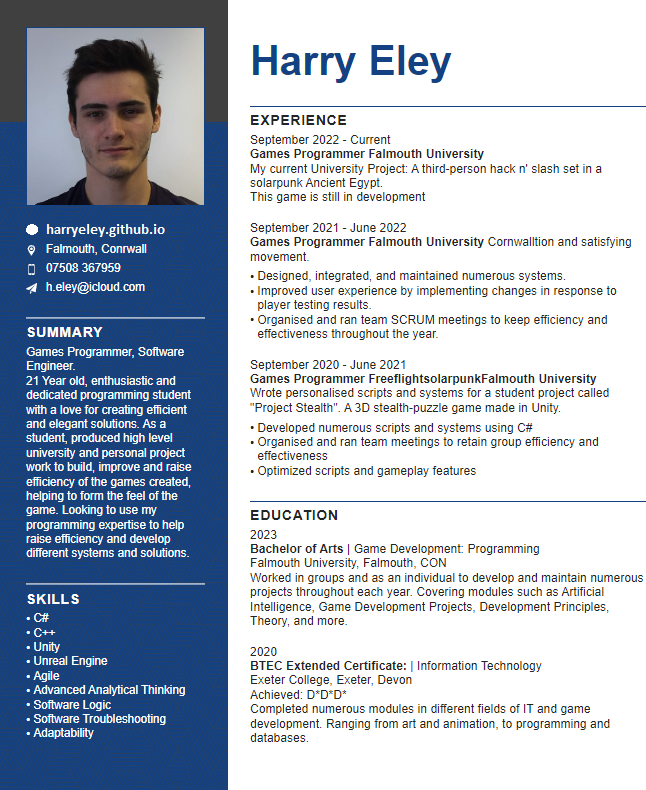
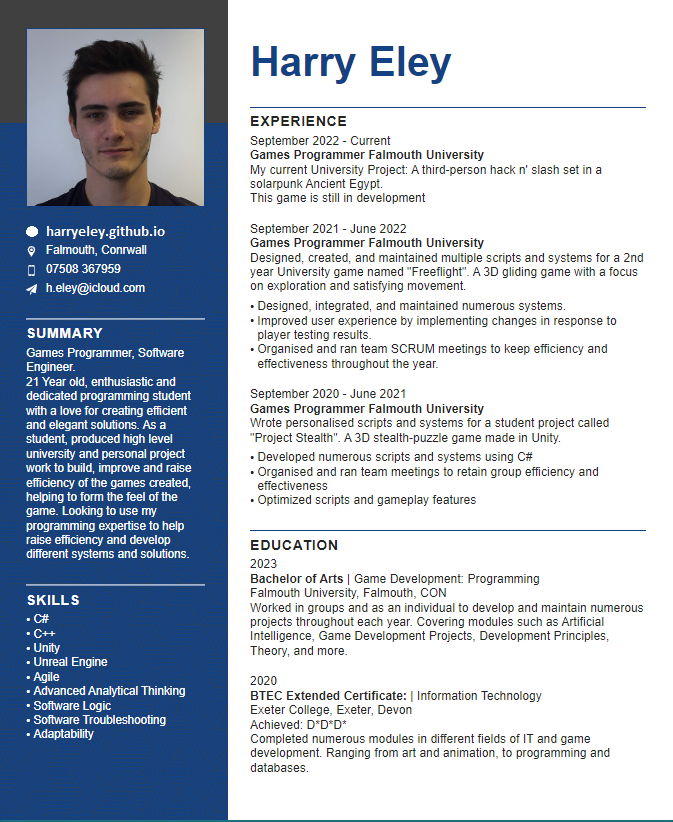
fixed cv typing error, updated freeflight pathing to include follow curve script

Changed region(s): [[0.0, 0.0, 0.9907, 1.0], [0.0, 0.1215, 0.0619, 0.1823], [0.1238, 0.0304, 0.1548, 0.0608]]

diff --git a/Freeflight.html b/Freeflight.html
@@ -195,7 +195,7 @@
 										<img src="images/FreeflightScripts/PathingToolGetInput.PNG" alt="" />
 										<p>
 											Below is the function that handles drawing the editor into the scene view. It lops through all segments within the path and gets all the points in the path, storing
-											these in an array. IT then draws lines between anchor points and their control point. These points are these passed through the DrawBezier function so it can be 
+											these in an array. IT then draws lines between anchor points and their control point. These points are these passed through the DrawBezier function so it can be
 											displayed to the user.
 										</p>
 										<p>
@@ -206,6 +206,14 @@
 											differentiated between.
 										</p>
 										<img src="images/FreeflightScripts/PathingToolDrawCurve.PNG" alt="" />
+										<h5>Follow Curve:</h5>
+										<p>
+											The following script is what controlled an object to follow a given path. This script gets where the object is along the current curve being followed in the path
+											and calculates the next location to go to along this curve, making use of a bezier equation, and then rotates around this curve so it's always facing forward.
+											<br />
+											Once this object reaches the end of the current curve it will progress onto the next segment, looping back to the initial segment once it has reached the end.
+										</p>
+										<img src="images/FreeflightScripts/PathingFollowCurve.PNG" alt="" />
 									</div>
 									<br />
 									<br />
